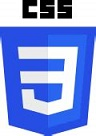
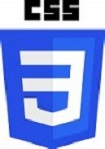
revised styling of skills section

diff --git a/src/components/Bio/Bio.js b/src/components/Bio/Bio.js
@@ -14,6 +14,7 @@ import node from './node.jpg'
 import mysql from './mysql.jpg'
 import mongo from './mongo.jpg'
 import react from './react.jpg'
+import three from './three.jpg'
 import { makeStyles } from '@material-ui/core/styles';
 import List from '@material-ui/core/List';
 import ListItem from '@material-ui/core/ListItem';
@@ -53,18 +54,16 @@ const Bio = () => {
           <div className='bio'>
           My goal is to become a junior developer and web designer who can create dynamic webpages that are responsive and interactive. I also enjoy styling and designing user interfaces. I am open to job opportunities as well as relocating to launch my coding career. Contact me if you'd like to know more!
           </div>
-          <div id='skills'>
+          <div class='skills'>
             <h1>Technical Skills</h1>
-            <img src={html} alt='HTML5 symbol' />
-            <img src={css} alt='CSS symbol' />
-            <img src={js} alt='JavaScript symbol' />
+            <img src={three} alt='HTML5, CSS, JS symbol' />
             <img src={node} alt='Node JS symbol' />
             <img src={mysql} alt='MySQL symbol' />
             <img src={mongo} alt='MongoDB symbol' />
             <img src={react} alt='React JS symbol' />
           </div>
           <br />
-          <div id='other'>
+          <div class='other'>
             <h2>Other Skills</h2>
             <List className={classes.root}>
               <ListItem>
@@ -93,6 +92,7 @@ const Bio = () => {
               </ListItem>
             </List>
           </div>
+          <br />
           <br />
           <div className='info'>
             <p>

diff --git a/src/components/Project/Project.js b/src/components/Project/Project.js
@@ -369,7 +369,7 @@ const Project = repos => {
               React-folio
             </Typography>
             <Typography variant="body2" color="textSecondary" component="p">
-              An app in which users can create their own portfolio using elements built entirely from React components. The app utilizes password authentication so users can register and sign in securely. They are then directed to a dashboard where they can build their portfolio and then click "publish" to finalize their work.
+              An app in which users can create their own portfolio using elements built entirely from React components. The app utilizes password authentication so users can register and sign in securely. They are then directed to a dashboard where they can build their portfolio and then click "publish" to see their final work.
             </Typography>
           </CardContent>
         </CardActionArea>

diff --git a/src/components/Bio/Bio.css b/src/components/Bio/Bio.css
@@ -36,3 +36,15 @@ h2 {
   -o-border-radius: 50px;
   margin: 10px;
 }
+
+.skills {
+  background-color: skyblue;
+  height: 50%;
+  width: 90%;
+}
+
+.other{
+  background-color: indigo;
+  height: 50%;
+  width: 50%;
+}
